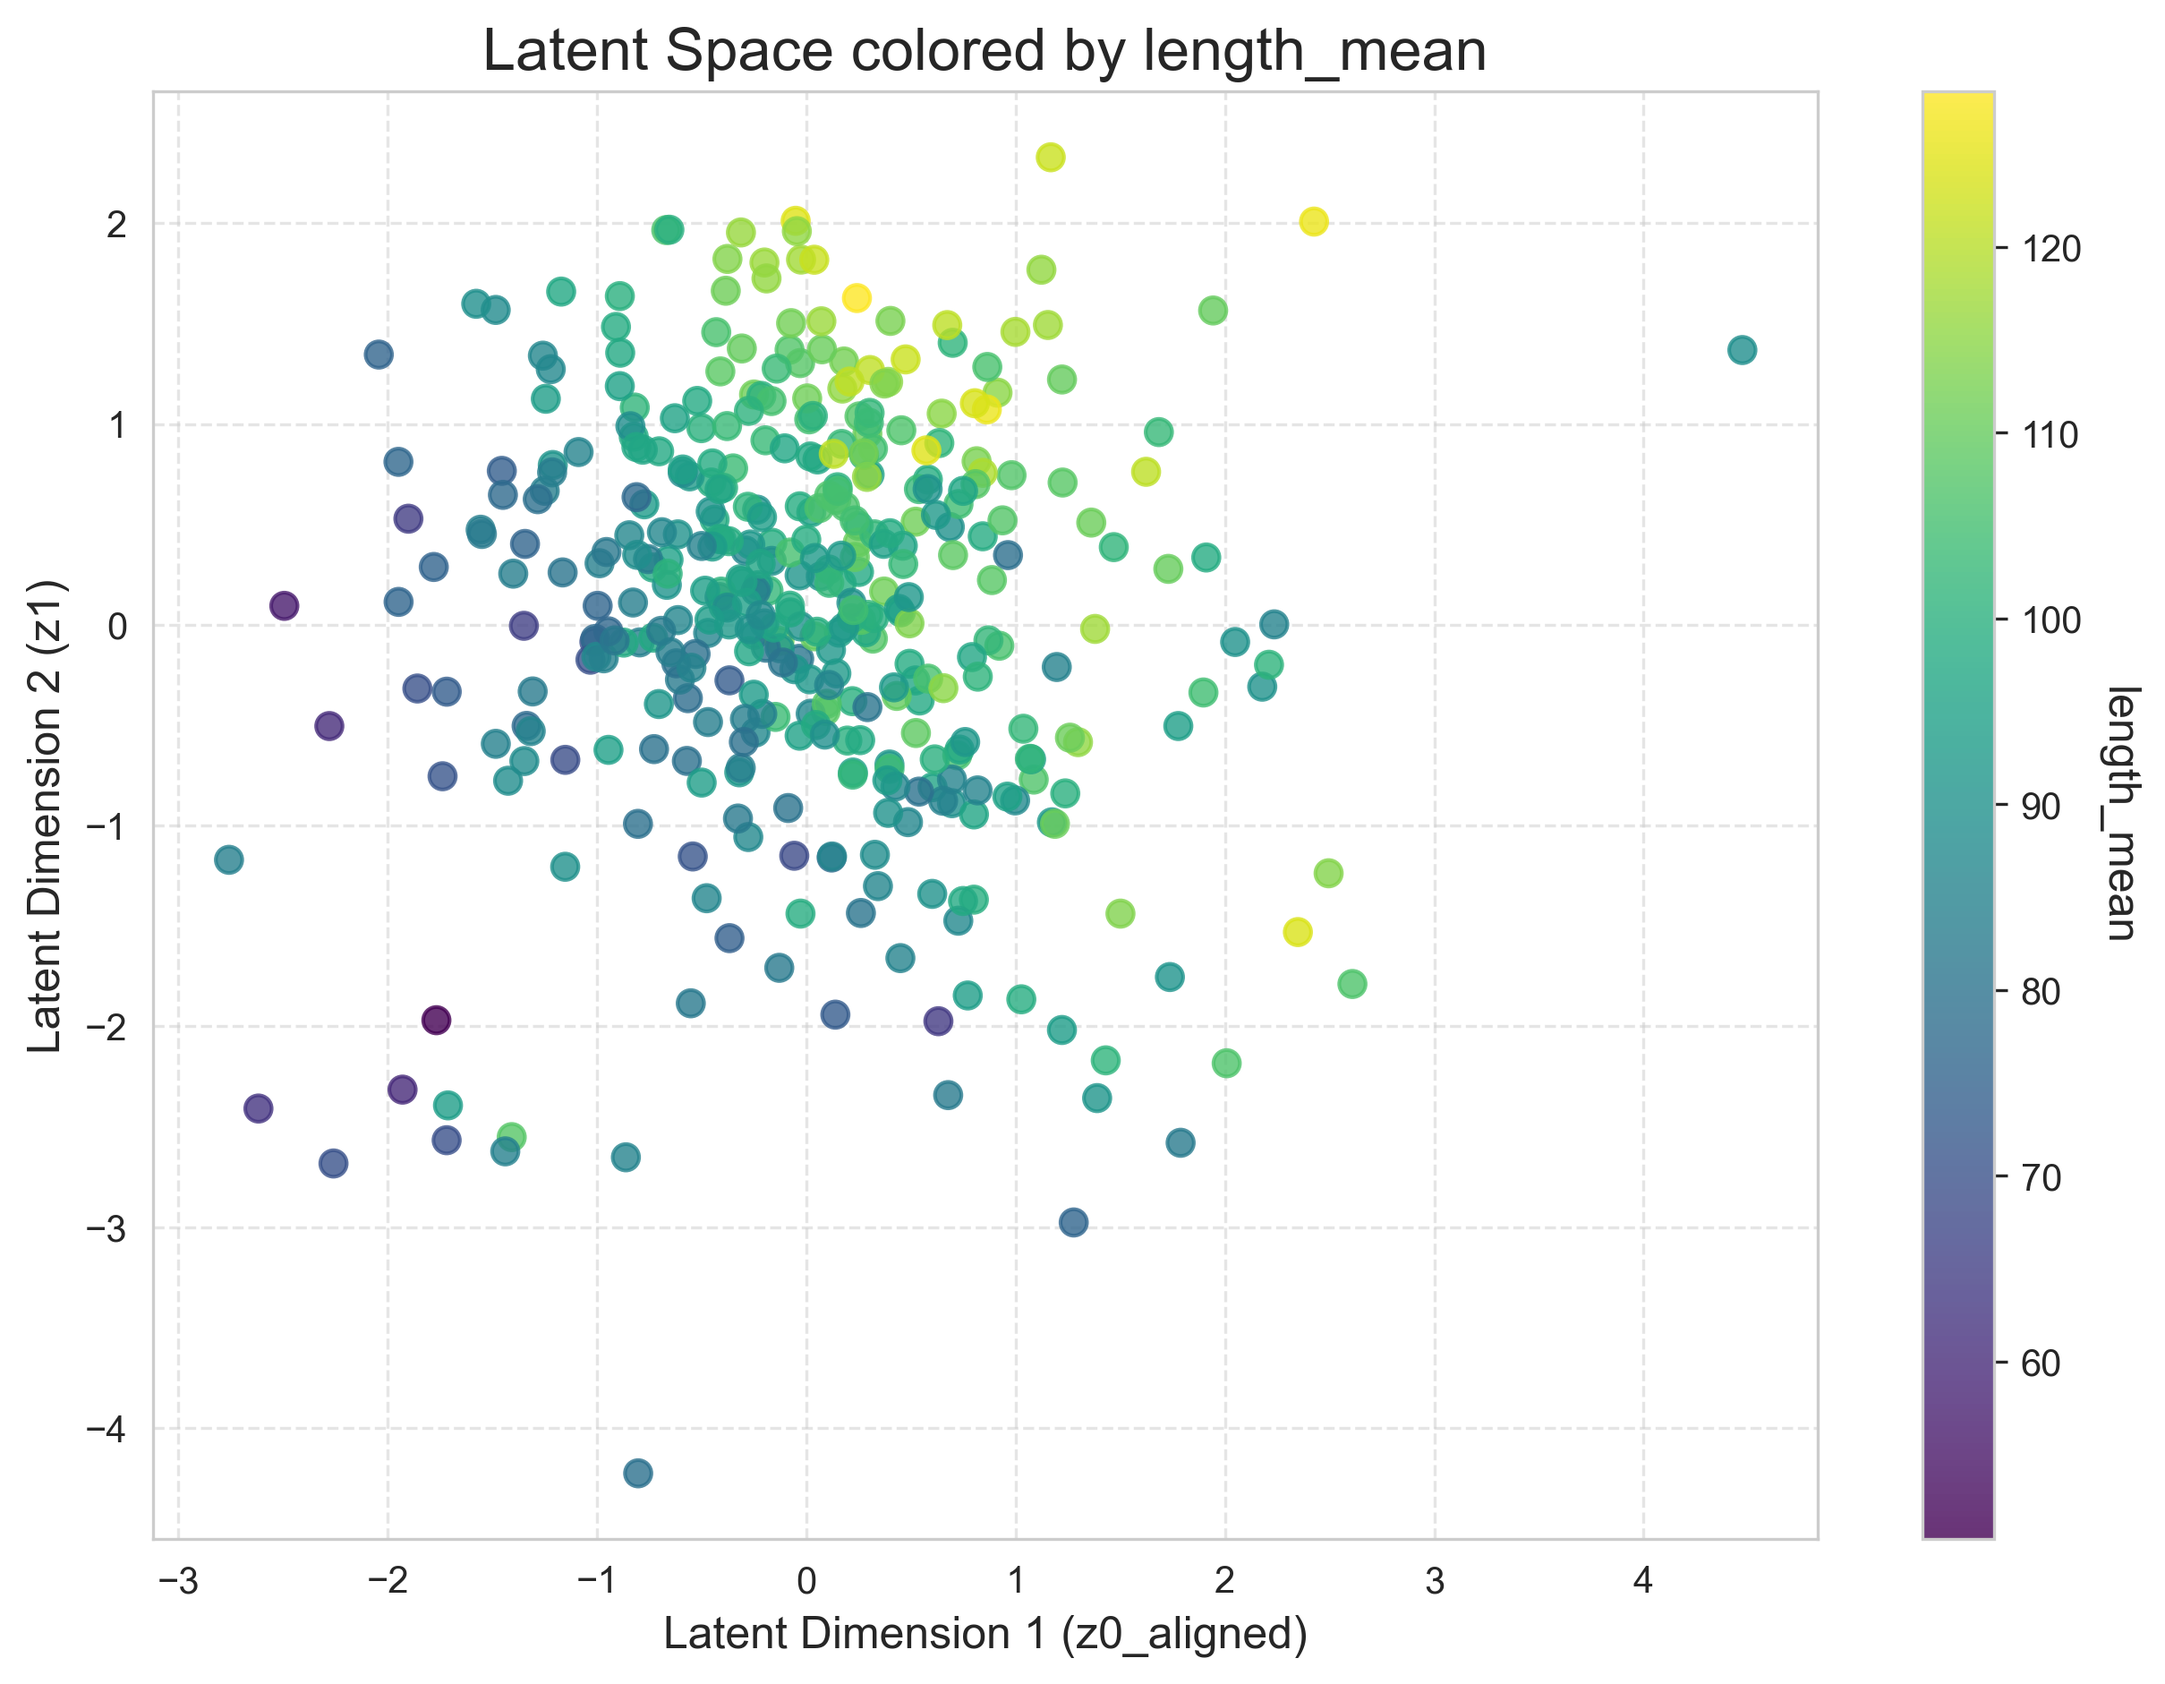
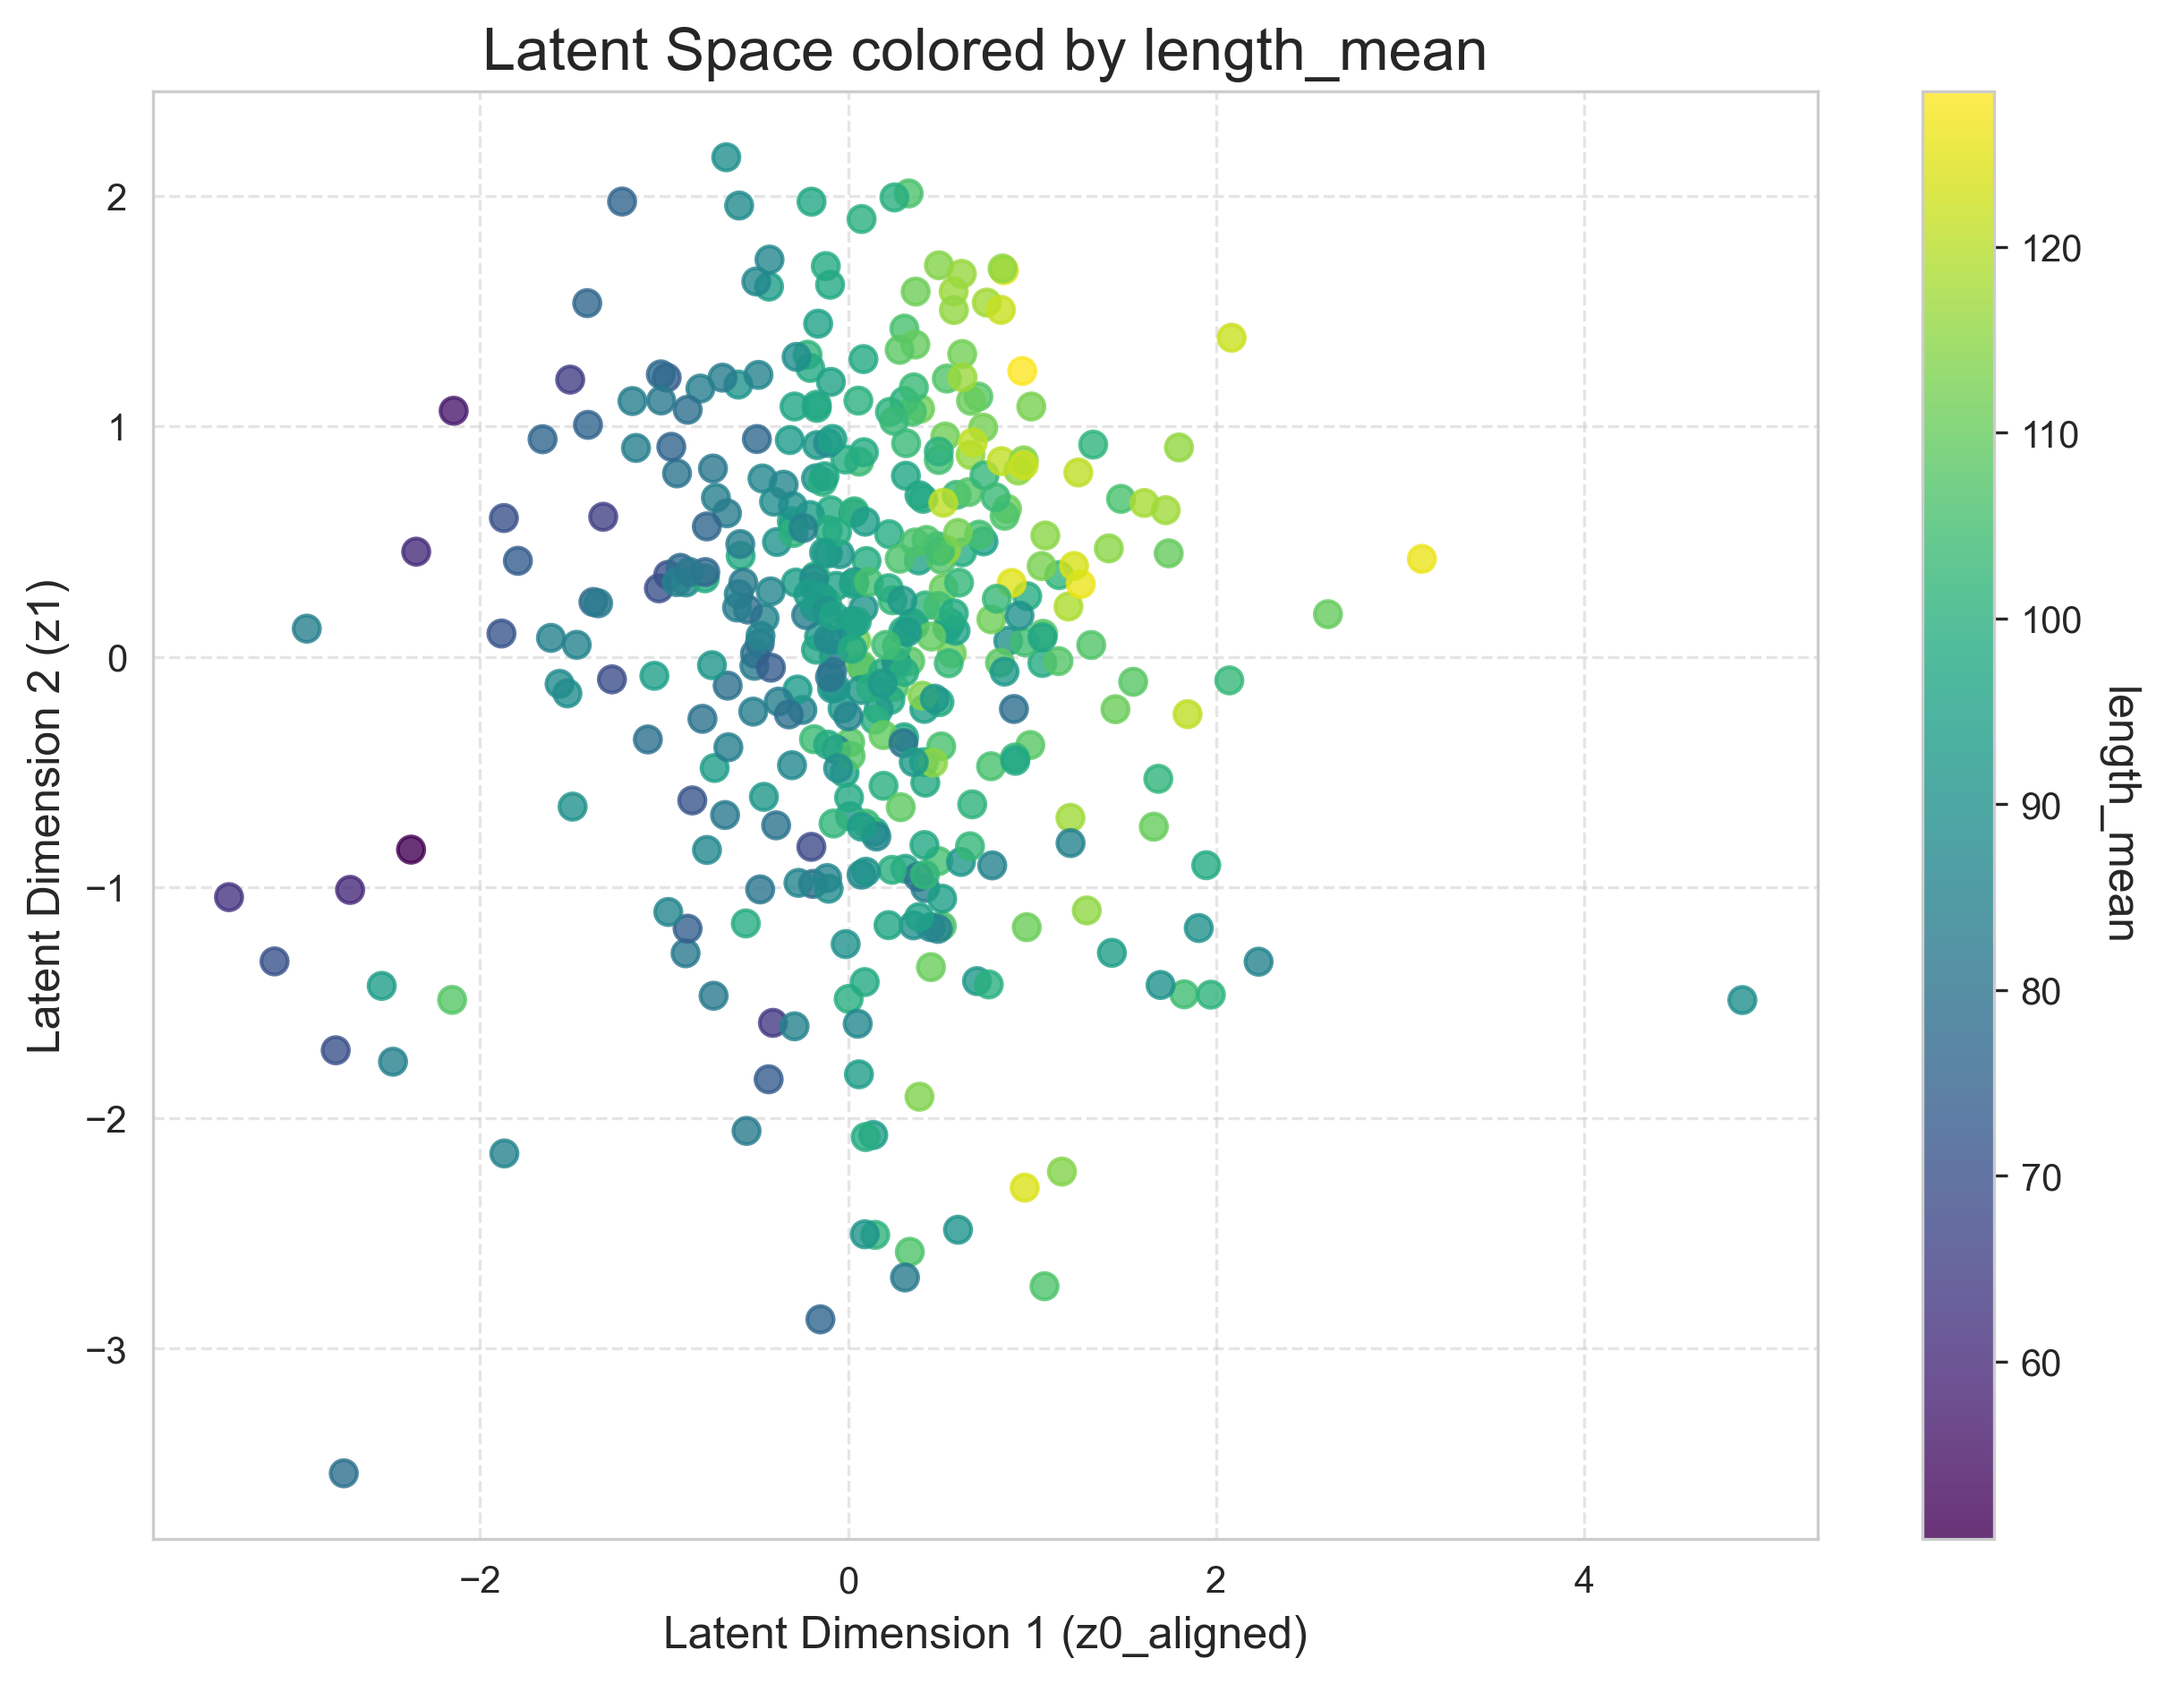
new paramaters grid

diff --git a/upgrade.py b/upgrade.py
@@ -128,9 +128,9 @@ class LatentRegressor(nn.Module):
 def tune_and_train_best_vae(X_all: torch.Tensor, input_dim: int, latent_dim: int) -> VAE:
     print("\n--- Phase 1: Hyperparameter Tuning & Training VAE ---")
     param_grid = {
-        'batch_size': [16, 32],
-        'lr': [1e-3, 5e-4,1e-4],
-        'dropout': [0.1, 0.2,0.3],
+        'batch_size': [8,16,24,32],
+        'lr': [5e-3,1e-3, 5e-4,1e-4],
+        'dropout': [0.1,0.15, 0.2,0.25,0.3],
         'epochs': [500,600,700,800,900,1000]
     }
     
